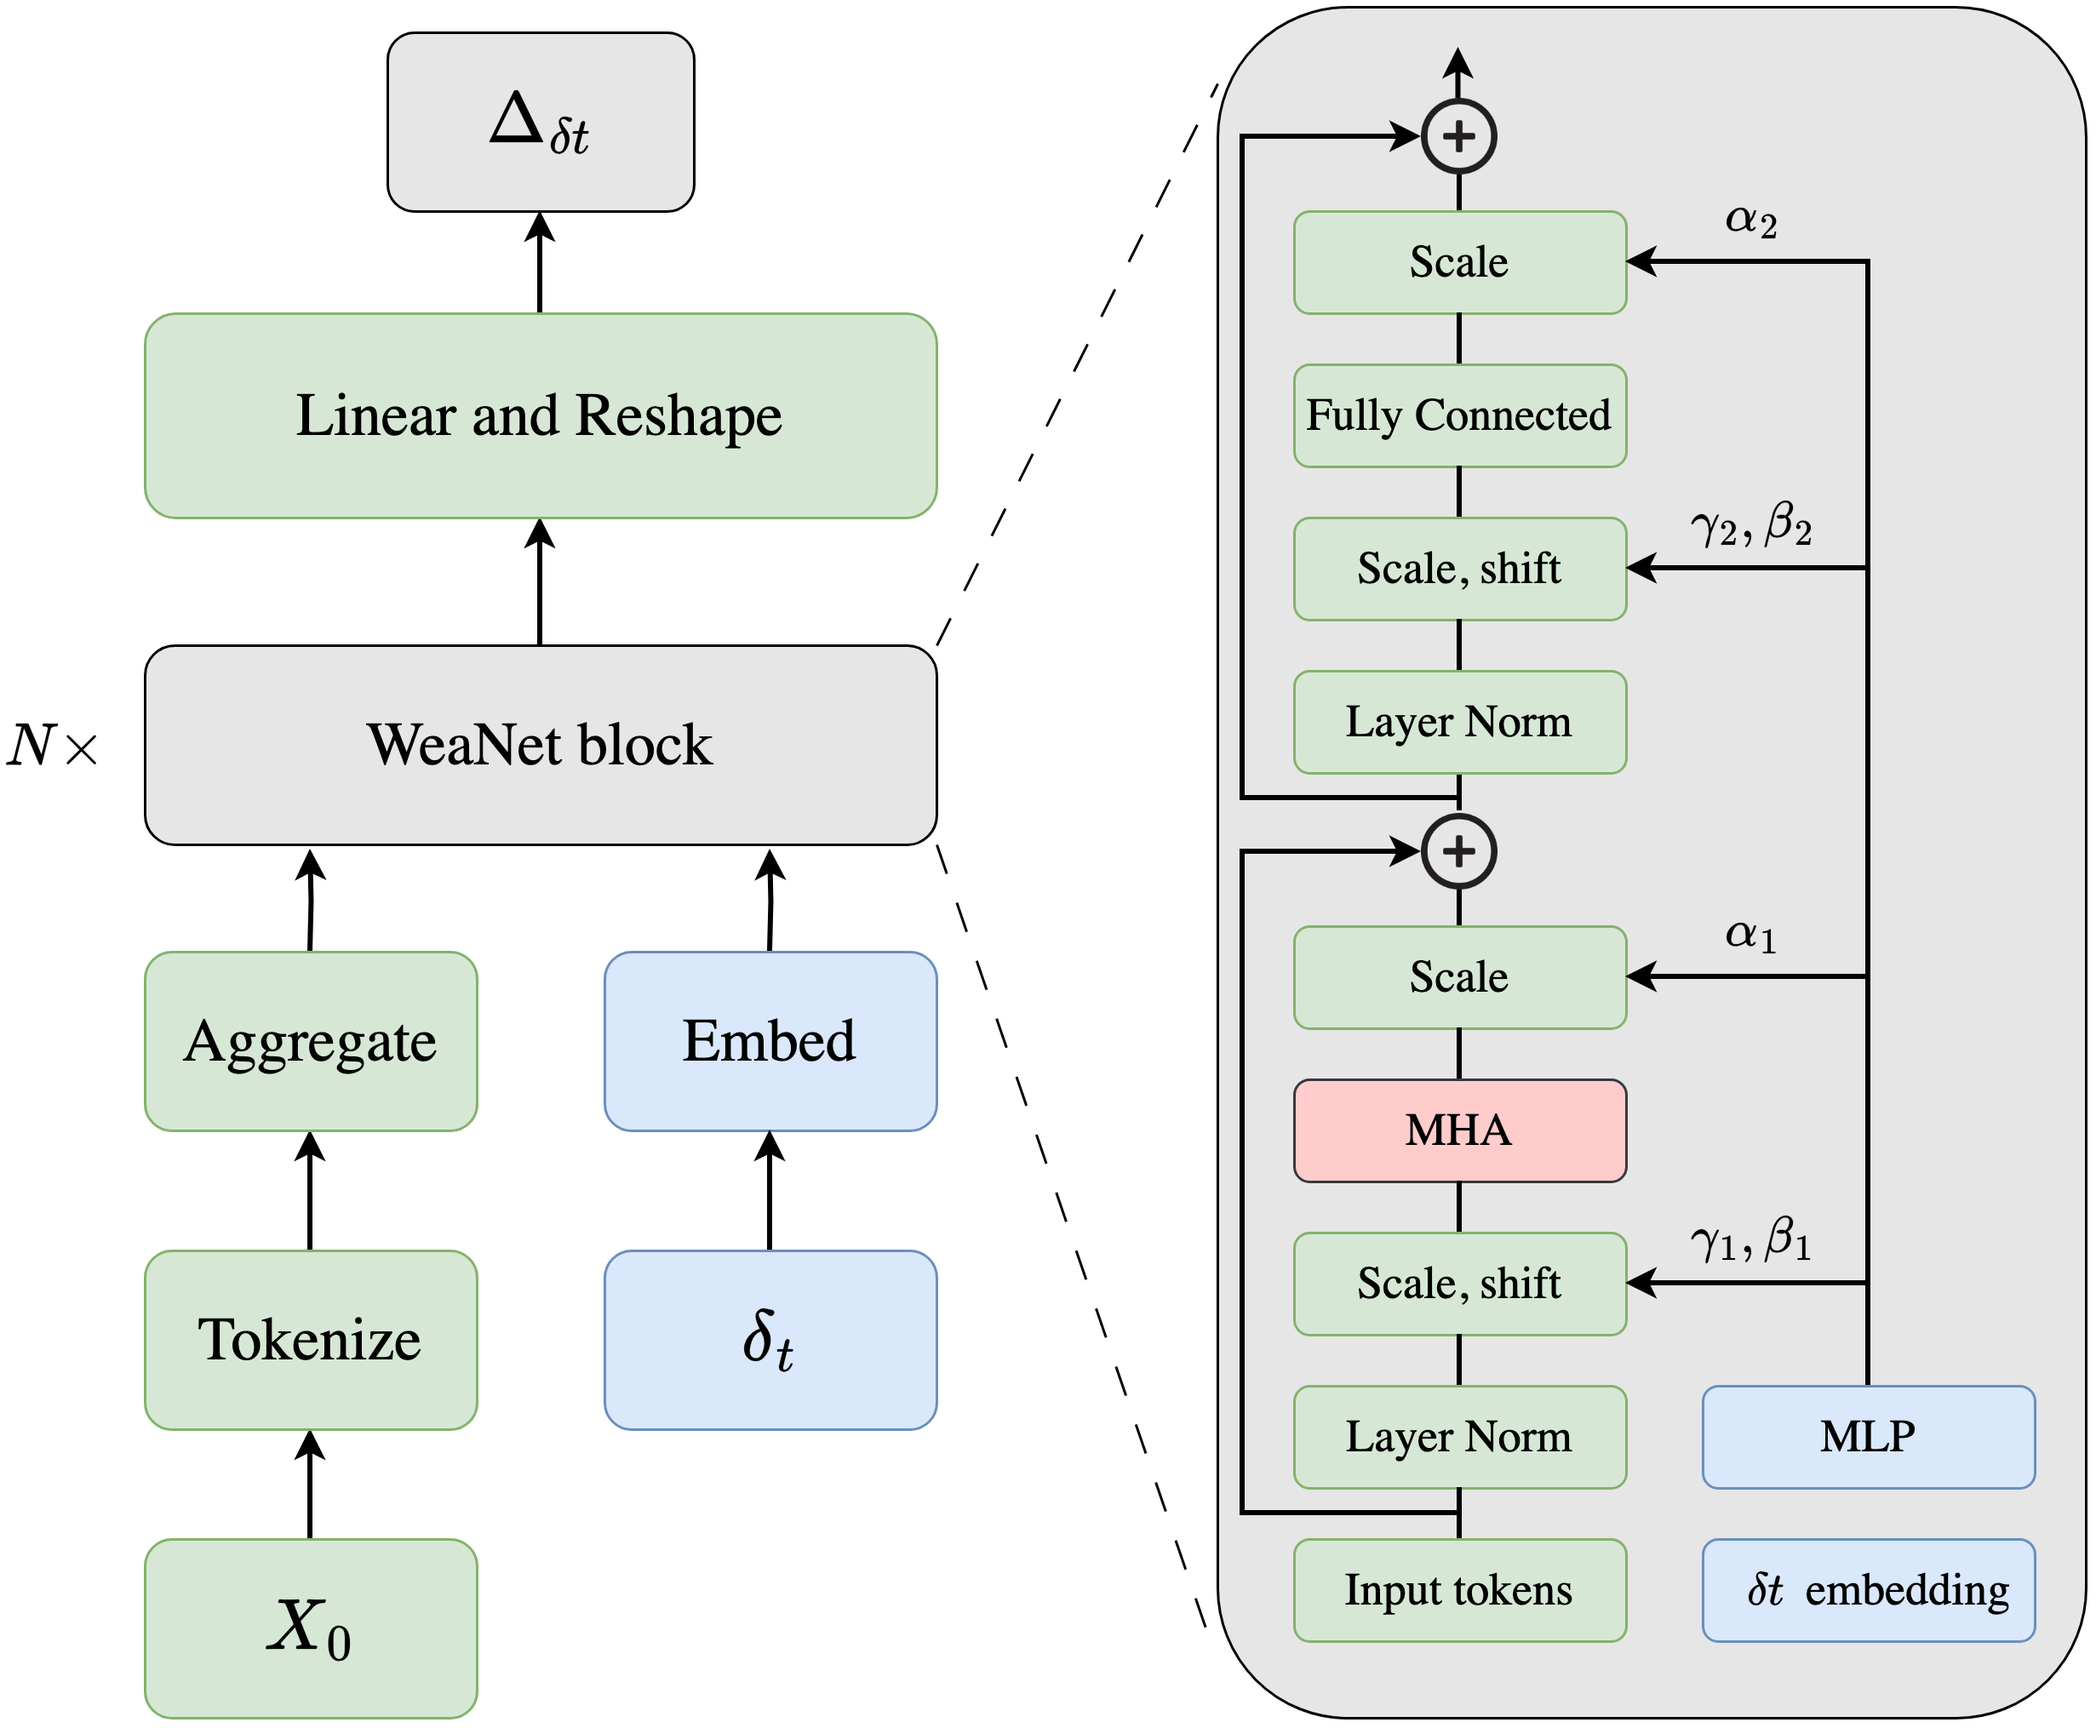
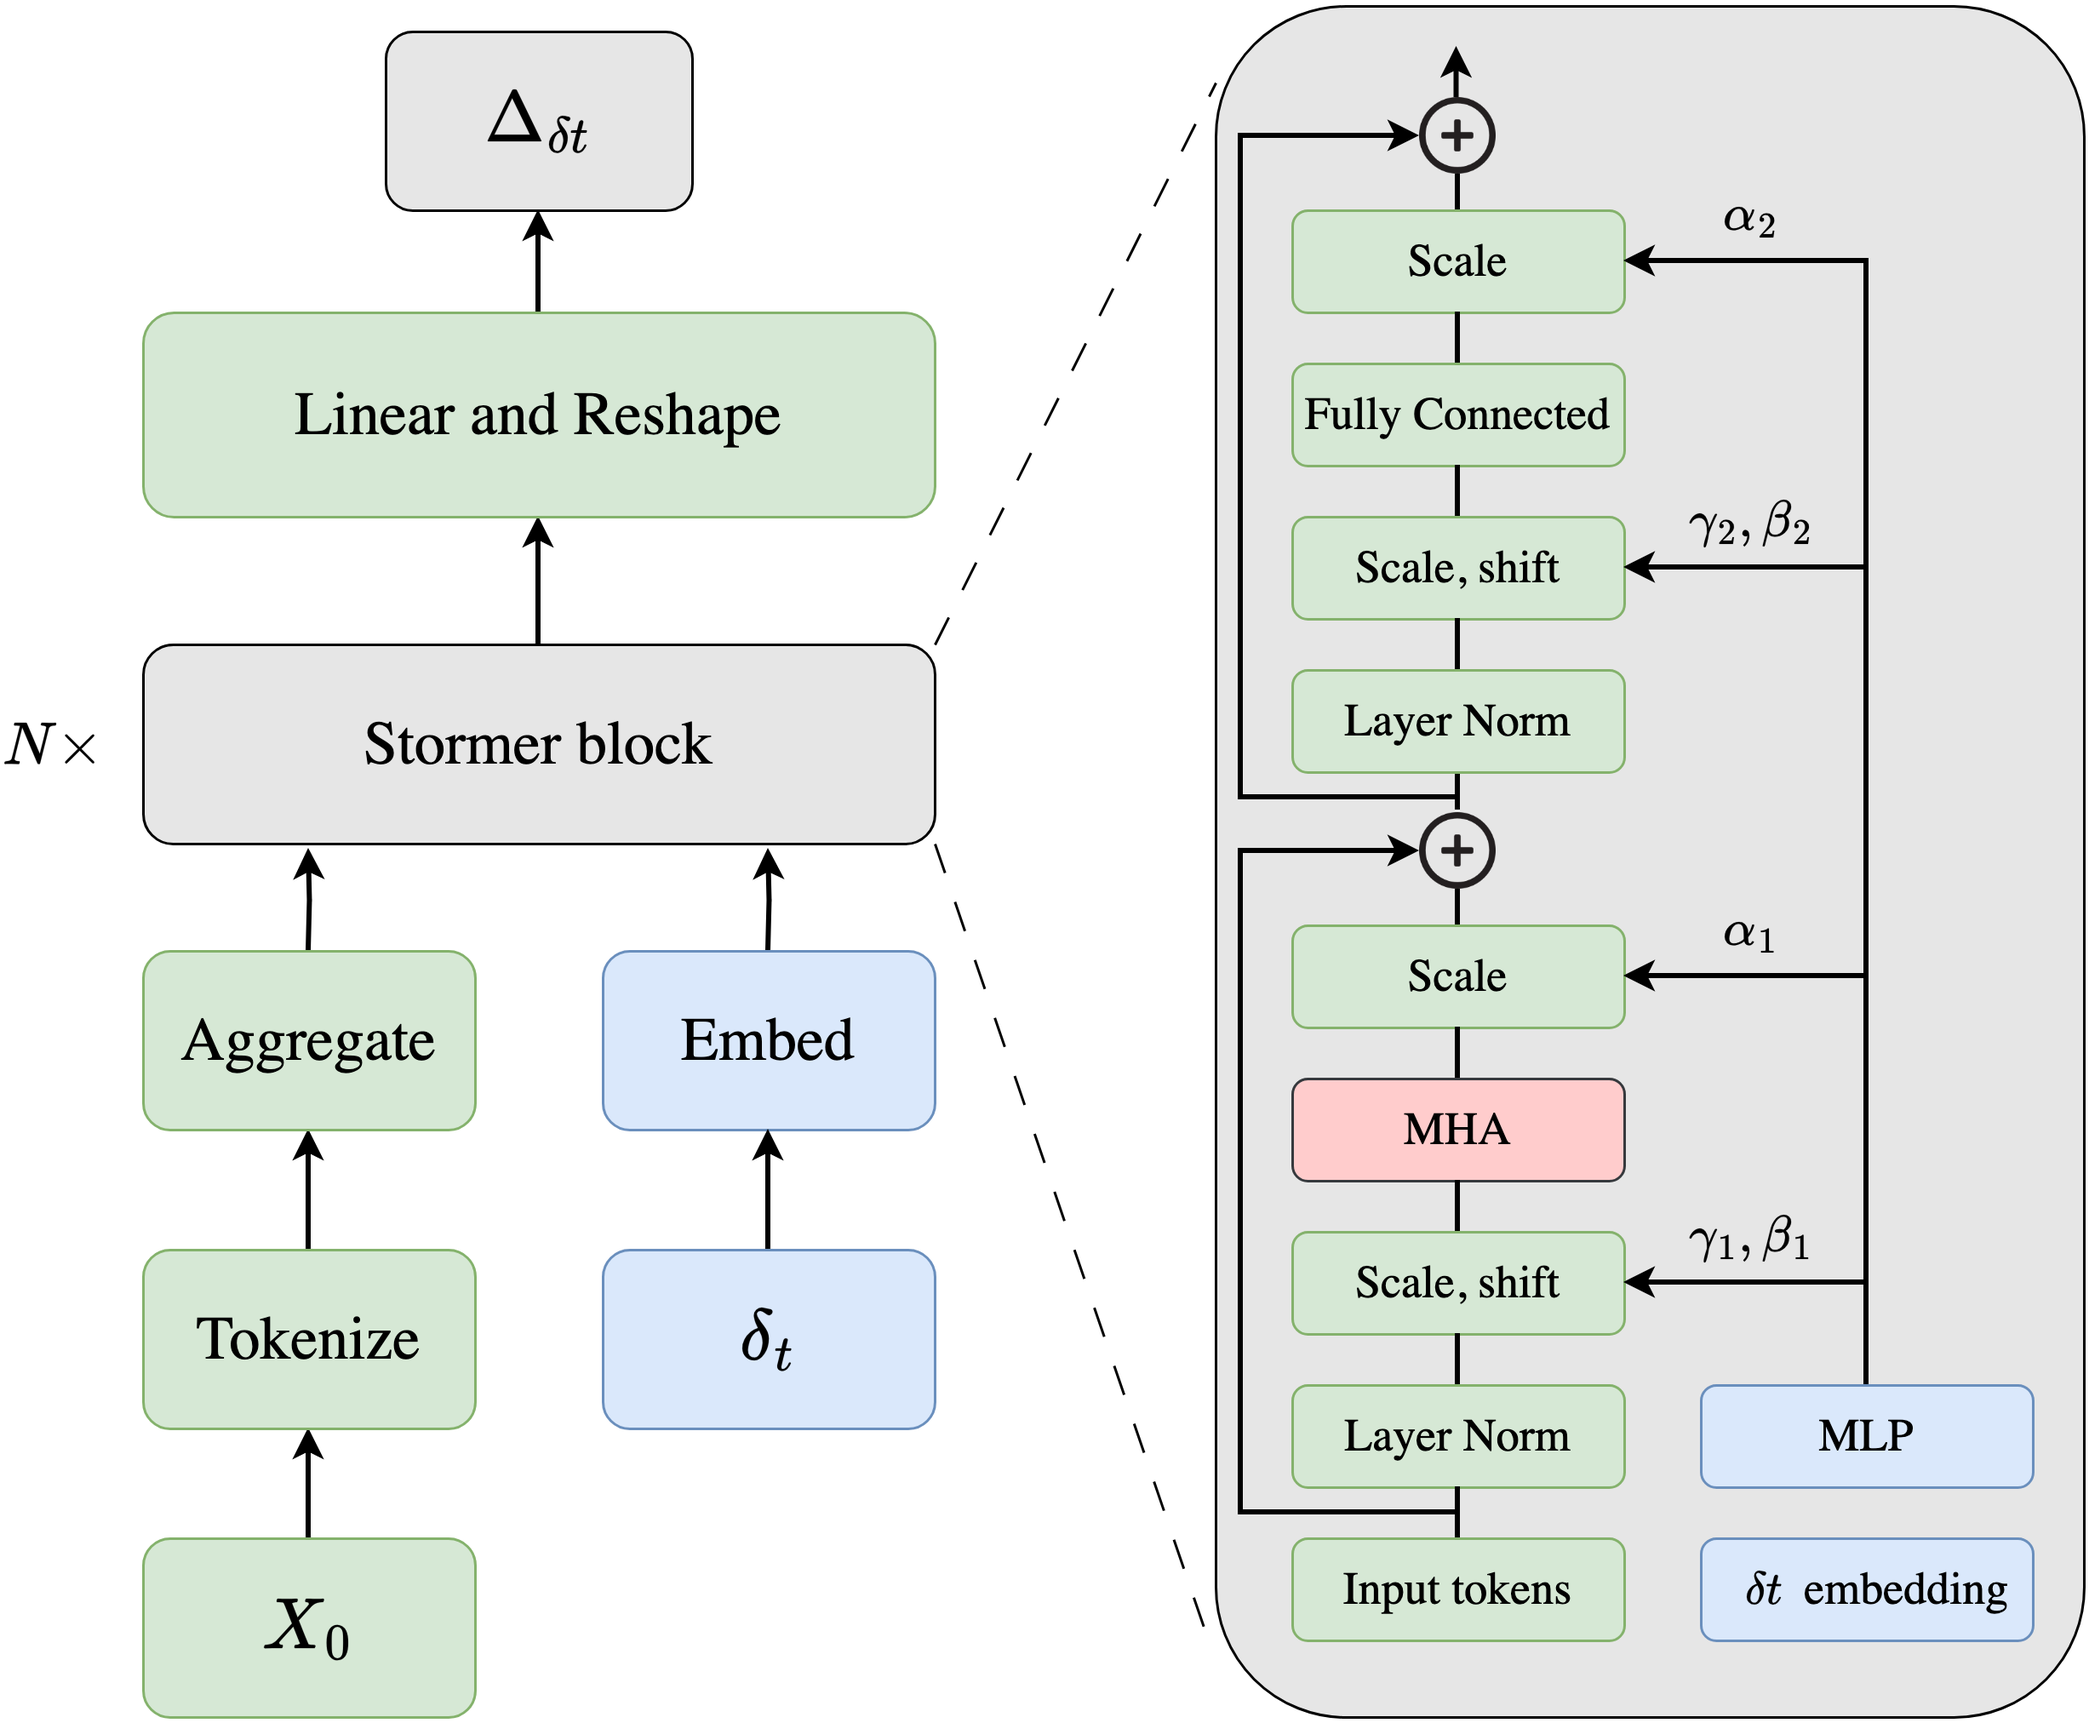
some updates

diff --git a/index.html b/index.html
@@ -118,10 +118,10 @@
 
 <html>
 <head>
-	<title>WeaNet: Simple and Scalable Transformers for State-of-the-art Weather Forecasting</title>
+	<title>Scaling transformer neural networks for skillful and reliable medium-range weather forecasting</title>
 	<meta property="og:image" content="./resources/cover.pdf"/> <!-- Facebook automatically scrapes this. Go to https://developers.facebook.com/tools/debug/ if you update and want to force Facebook to rescrape. -->
-	<meta property="og:title" content="WeaNet: Simple and Scalable Transformers for State-of-the-art Weather Forecasting" />
-	<meta property="og:description" content="WeaNet: Simple and Scalable Transformers for State-of-the-art Weather Forecasting" />
+	<meta property="og:title" content="Scaling transformer neural networks for skillful and reliable medium-range weather forecasting" />
+	<meta property="og:description" content="Scaling transformer neural networks for skillful and reliable medium-range weather forecasting" />
 
 	<!-- Get from Google Analytics -->
 	<!-- Global site tag (gtag.js) - Google Analytics -->
@@ -138,7 +138,7 @@
 <body>
 	<br>
 	<center>
-		<span style="font-size:36px">WeaNet: Simple and Scalable Transformers for State-of-the-art Weather Forecasting</span>
+		<span style="font-size:36px">Scaling transformer neural networks for <br> skillful and reliable medium-range weather forecasting</span>
 		<br>
 		<br>
 		<table align=center width=1500px>
@@ -198,17 +198,17 @@
 				<tr>
 					<td align=center width=120px>
 						<center>
-							<span style="font-size:26px"><a href='https://tung-nd.github.io/weanet/'>[Paper]</a></span>
+							<span style="font-size:26px"><a href='https://tung-nd.github.io/Stormer/'>[Paper]</a></span>
 						</center>
 					</td>
 					<td align=center width=120px>
 						<center>
-							<span style="font-size:26px"><a href='https://github.com/tung-nd/weanet'>[GitHub]</a></span><br>
+							<span style="font-size:26px"><a href='https://github.com/tung-nd/Stormer'>[GitHub]</a></span><br>
 						</center>
 					</td>
 					<td align=center width=120px>
 						<center>
-							<span style="font-size:26px"><a href='https://tung-nd.github.io/weanet/'>[Demo]</a></span><br>
+							<span style="font-size:26px"><a href='https://tung-nd.github.io/Stormer/'>[Demo]</a></span><br>
 						</center>
 					</td>
 				</tr>
@@ -233,8 +233,8 @@
 			<td style="text-align: justify;">
 				Illustration of an example 5-day forecast of near-surface wind speed (color-fill) and mean sea level
 				pressure (contours). On December 31, 2020, an extratropical cyclone impacted Alaska setting a new North
-				Pacific low-pressure record. Here, we evaluate the ability of WeaNet to predict this record-breaking event 5
-				days in advance. Using initial conditions from 0000 UTC, 26 December 2011, WeaNet was able to successfully
+				Pacific low-pressure record. Here, we evaluate the ability of Stormer to predict this record-breaking event 5
+				days in advance. Using initial conditions from 0000 UTC, 26 December 2011, Stormer was able to successfully
 				forecast both the location and strength of this extreme event with great accuracy.
 			</td>
 		</table>
@@ -252,16 +252,16 @@
 				learning have shown great promise, achieving accuracies that are competitive with operational
 				systems. However, those methods often employ complex, customized architectures without
 				sufficient ablation analysis, making it difficult to understand what truly contributes to their
-				success. Here we introduce WeaNet, a simple transformer model that achieves state-of-the-
+				success. Here we introduce Stormer, a simple transformer model that achieves state-of-the-
 				art performance on weather forecasting with minimal changes to the standard transformer
-				backbone. We identify the key components of WeaNet through careful empirical analyses,
+				backbone. We identify the key components of Stormer through careful empirical analyses,
 				including weather-specific embedding, randomized dynamics forecast, and pressure-weighted
-				loss. At the core of WeaNet is a randomized forecasting objective that trains the model to
+				loss. At the core of Stormer is a randomized forecasting objective that trains the model to
 				forecast the weather dynamics over varying time intervals. During inference, this allows us to
 				produce multiple forecasts for a target lead time and combine them to obtain better forecast
-				accuracy. On WeatherBench 2, WeaNet performs competitively at short to medium-range
+				accuracy. On WeatherBench 2, Stormer performs competitively at short to medium-range
 				forecasts and outperforms current methods beyond 7 days, while requiring orders-of-magnitude
-				less training data and compute. Additionally, we demonstrate WeaNet’s favorable scaling
+				less training data and compute. Additionally, we demonstrate Stormer’s favorable scaling
 				properties, showing consistent improvements in forecast accuracy with increases in model size
 				and training tokens. Code and checkpoints will be made available.
 			</td>
@@ -284,7 +284,7 @@
 		<!-- <br> -->
 		<tr> 
 			<td width=300px style="text-align: justify;">
-				The key innovation of WeaNet is a randomized forecasting objective that trains the model to forecast the weather dynamics over varying time intervals of 6, 12, and 24 hours.
+				The key innovation of Stormer is a randomized forecasting objective that trains the model to forecast the weather dynamics over varying time intervals of 6, 12, and 24 hours.
 				The 6 and 12-hour values help to encourage the model to learn and resolve the
 				diurnal cycle (day-night cycle), one of the most important oscillations in the atmosphere driving short-term
 				dynamics, while the 24-hour value filters the effects of the diurnal cycle and allows the model to learn longer, synoptic-scale dynamics.
@@ -310,10 +310,10 @@
 		<tr> 
 			<td width=300px style="text-align: justify;">
 				<!-- ExPT has an encoder-decoder architecture. A transformer-based encoder takes in context points <i>(y<sub>1</sub>,x<sub>1</sub>), ... (y<sub>m</sub>, x<sub>m</sub>)</i> as well as target <i>y</i> values <i> y<sub>m+1</sub>, ... , y<sub>N</sub> </i>to produce embeddings <i>h<sub>m+1</sub>, ... , h<sub>N</sub></i>. Then a VAE decoder generates designs <i>x<sub>m+1</sub>, ... , x<sub>N</sub></i> corresponding to the target objective values.  -->
-				WeaNet architecture consists of two components, a weather-specific embedding and the WeaNet backbone. 
+				Stormer architecture consists of two components, a weather-specific embedding and the Stormer backbone. 
 				The weather-specific embedding module embeds the input <i>𝑋<sub>0</sub> ∈ R<sup>𝑉×𝐻×W</sup></i> to a sequence of <i>(H/p) × (W/p)</i> tokens, while modeling the non-linear interactions between climate variables in the input.
-				The tokens are fed to the WeaNet backbone together with the time interval embedding 𝛿𝑡, and finally go through a linear and reshape module to produce the dynamics forecast.
-				Each WeaNet block employs adaptive layer normalization to condition on 𝛿𝑡. 
+				The tokens are fed to the Stormer backbone together with the time interval embedding 𝛿𝑡, and finally go through a linear and reshape module to produce the dynamics forecast.
+				Each Stormer block employs adaptive layer normalization to condition on 𝛿𝑡. 
 			</td>
 		</tr>
 	</table>
@@ -325,11 +325,10 @@
 	<table align=center width=1000px style="font-size:20px">
 		<tr> 
 			<td width=300px style="text-align: justify;">
-				We evaluate the performance of WeaNet on Weatherbench 2 using RMSE (top) and ACC (bottom) metrics. For short-range, 1–5 day forecasts, WeaNet accuracy is on par with Pangu-Weather and GraphCast. 
-				At longer lead times, WeaNet excels, consistently outperforming both Pangu-Weather and
-				GraphCast from day 6 onwards by a large margin. Moreover, the performance gap increases as we increase
-				the lead time. At 14 day forecasts, WeaNet performs better than GraphCast by 10% − 20% across all 9 key
-				variables.
+				We evaluate the performance of Stormer on Weatherbench 2 using RMSE (top) and ACC (bottom) metrics. For short-range, 1–5 day forecasts, Stormer accuracy is on par with Pangu-Weather and GraphCast. 
+				At longer lead times, Stormer excels, consistently outperforming both baseline methods from day 6 onwards by a large margin. Moreover, the performance gap increases as we increase
+				the lead time. At 14 day forecasts, Stormer performs better than GraphCast by 10% − 20% across all 9 key variables.
+				Stormer is also the only model in this comparison that performs better than Climatology at long lead times, while other methods approach or even do worse than this simple baseline.
 			</td>
 		</tr>
 		<tr style="height: 15px;">
@@ -342,10 +341,24 @@
 				</center>
 			</td>
 		</tr>
+		<tr> 
+			<td width=300px style="text-align: center; font-size:20px">
+				Comparison with the deep learning baselines on Root Mean Squared Error (RMSE) metric. Lower RMSE is better.
+			</td>
+		</tr>
+		<tr style="height: 40px;">
+			<td></td>
+		</tr>
+		<tr>
 			<td width=1000px>
 				<center>
 					<img style="width:1000px; height:auto;" src="./resources/main_acc.jpg"/>
 				</center>
+			</td>
+		</tr>
+		<tr> 
+			<td width=300px style="text-align: center; font-size:20px">
+				Comparison with the deep learning baselines on Anomaly Correlation Coefficient (ACC) metric. Higher ACC is better.
 			</td>
 		</tr>
 	</table>
@@ -361,13 +374,13 @@
 	<table align=center width=750 style="font-size:20px">
 		<center><h1>BibTeX</h1></center>
 		<tr>
-			<td><a href=""><img class="layered-paper-big" style="height:250px" src="./resources/paper-big.png"/></a></td>
-			<td><span style="font-size:20px">Tung Nguyen, Sudhanshu Agrawal, Aditya Grover<br>
-				<b>ExPT: Synthetic Pretraining for Few-Shot Experimental Design</b><br>
-				In NeurIPS, 2023.<br>
+			<td><a href=""><img class="layered-paper-big" style="height:250px" src="./resources/first_page.jpg"/></a></td>
+			<td><span style="font-size:20px">Tung Nguyen, Rohan Shah, Hritik Bansal, Troy Arcomano, Sandeep Madireddy, Romit Maulik, Veerabhadra Kotamarthi, Ian Foster, Aditya Grover<br>
+				<b>Scaling transformer neural networks for <br> skillful and reliable medium-range weather forecasting</b><br>
+				Preprint, 2023.<br>
 				<!-- (<a href="./resources/camera-ready.pdf">camera ready</a>)<br> -->
 				<br>
-				If you find our work useful, please consider citing us using the following BibTeX : 
+				If you find our work useful, please consider citing us using the following BibTeX: 
 			</td>
 		</tr>
 	</table>
